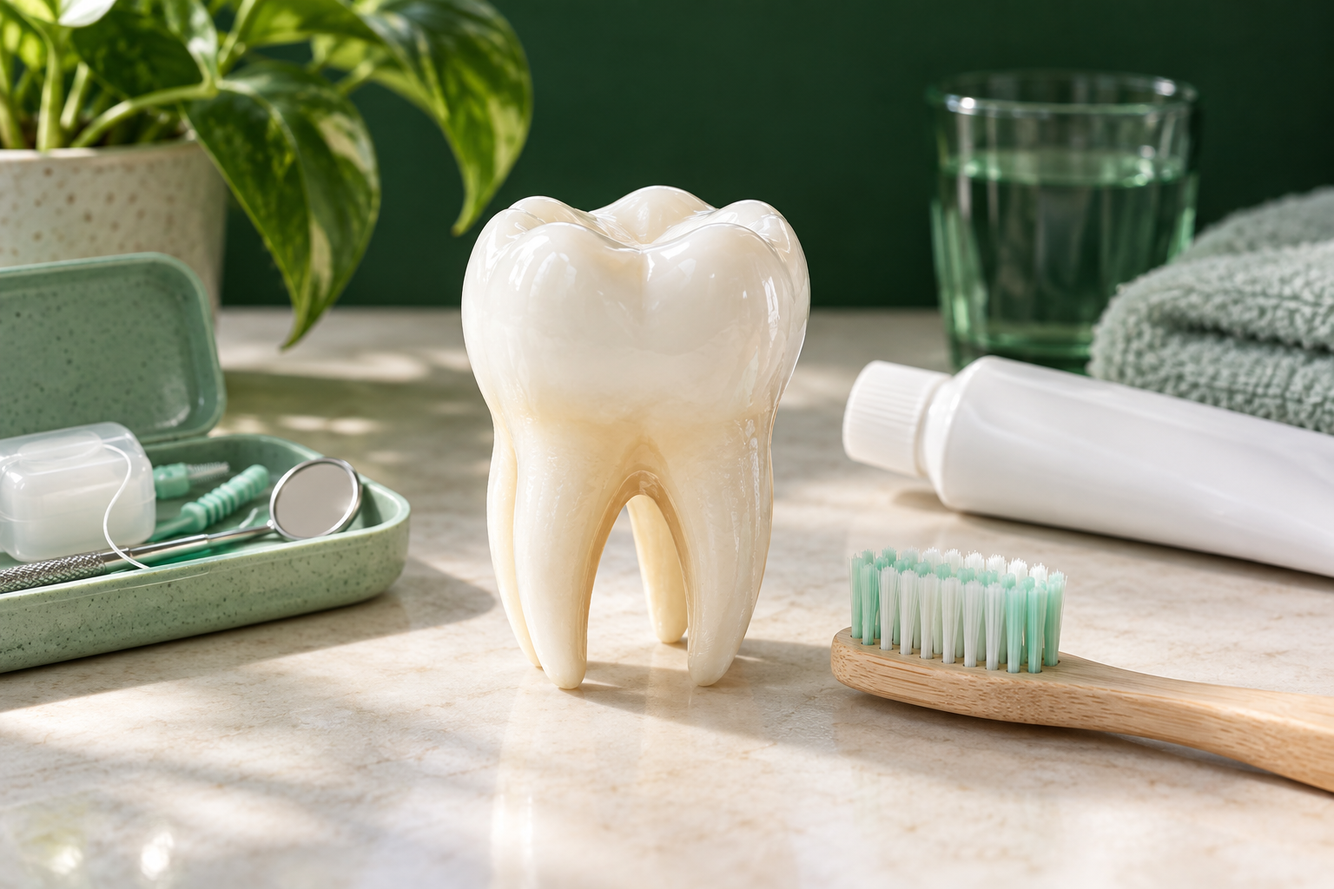
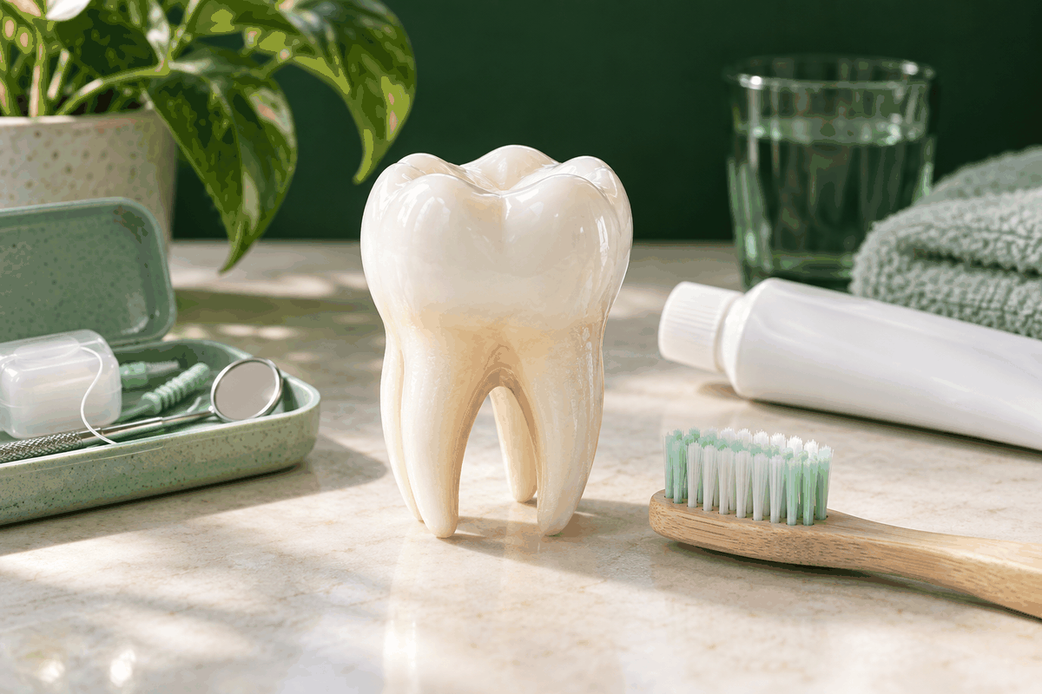
Imagens em WebP (~43 MB -> 2 MB) e contatos de suporte reais (ES e PT)
PNGs dos bônus mantidos (referenciados no conteúdo do Supabase), reduzidos.

Claude-Session: https://claude.ai/code/session_0115L1Bk836Ds85ivVbBK1Qr

diff --git a/index.html b/index.html
@@ -89,7 +89,7 @@ body.dark{background-image:radial-gradient(ellipse at 92% 4%,#009e1618,transpare
 .hero:before{content:'';position:absolute;inset:0;z-index:-1;background:radial-gradient(ellipse at 90% 35%,#00c51990,transparent 65%)}
 .hero-copy{padding:36px 37px}.hero .eyebrow{color:#71f28a;font-weight:600}.pill-dot{background:#00e323;box-shadow:0 0 10px #00e32380}
 .hero h2{font-size:36px;font-weight:700;letter-spacing:-1px;max-width:410px;line-height:1.22}.hero h2 em{color:#00df24}.hero p{color:#c0d0c2}.hero .btn{background:#00df24;color:#031207;box-shadow:0 5px 24px #00df2420}
-.hero-image{position:absolute;right:0;top:0;width:42%;height:100%;background:url('./assets/original/318e570845da55df1756.png') right center / auto 100% no-repeat;z-index:-1;mask-image:linear-gradient(to right,transparent 0%,#000 30%);-webkit-mask-image:linear-gradient(to right,transparent 0%,#000 30%)}
+.hero-image{position:absolute;right:0;top:0;width:42%;height:100%;background:url('./assets/original/318e570845da55df1756.webp') right center / auto 100% no-repeat;z-index:-1;mask-image:linear-gradient(to right,transparent 0%,#000 30%);-webkit-mask-image:linear-gradient(to right,transparent 0%,#000 30%)}
 .btn{border-radius:8px}.btn:hover{filter:brightness(1.08)}.dark .btn:not(.secondary){color:#020b04}.btn.secondary:hover{border-color:var(--green)}
 .panel,.module-card,.stat{box-shadow:var(--shadow)}.dark .module-card:hover{border-color:#258234}.module-art{background-image:url('./assets/original/01652dd9a48811f6f6f5.svg')!important}.dark .module-art{filter:none;background-color:#0b2811!important;color:#21e342!important;border:1px solid #1b4022}.dark .module-art .n{color:#94b89b}.module-art:after{border-color:#00df2420}.module-card h3{font-weight:600}
 .meter span{background:var(--green)}.dark .stat .icon{background:#0b2811;color:#00df24}.dark .stat strong{color:#f4f8f2}.side-note{border:1px solid var(--line);background:var(--soft) url('./assets/original/01652dd9a48811f6f6f5.svg')}.quote{border:1px solid var(--line)}.dark .quote p{color:#d6e5d8}.dark .quote span{color:#79a782}
@@ -345,9 +345,9 @@ body.premium-page{--bg:#f4f5ed;--surface:#fffef9;--ink:#1b342d;--muted:#69796d;-
 .bonus-access-state{display:flex;align-items:center;gap:8px;font-weight:700;color:var(--bonus-gold)}
 .bonus-buy-actions{display:flex;flex-wrap:wrap;gap:10px}.bonus-content .bonus-checkout-note{font-size:12px;line-height:1.65}
 .entry-code-btn{width:100%;margin-top:10px}.code-input{letter-spacing:.35em;font-size:1.35em;text-align:center;font-variant-numeric:tabular-nums}</style><link rel="manifest" href="./manifest.webmanifest"><meta name="apple-mobile-web-app-capable" content="yes"><meta name="apple-mobile-web-app-status-bar-style" content="black-translucent"><link rel="apple-touch-icon" sizes="180x180" href="./apple-touch-icon.png"><meta name="apple-mobile-web-app-title" content="Protocolo AB7"></head>
-<body class="dark entry-active"><aside class="sidebar"><a class="brand" href="#inicio" aria-label="Protocolo AB7 — Inicio"><span class="ab7-reference"><img class="ab7-reference-base" src="./assets/original/695de2e5254ba0661b77.png" alt="Protocolo AB7"><img class="ab7-reference-title" src="./assets/original/695de2e5254ba0661b77.png" alt="" aria-hidden="true"></span></a><p class="eyebrow sidebar-label">TU ESPACIO DE CUIDADO</p><nav aria-label="Navegación principal" id="desktop-nav"></nav><div class="side-note"><span class="icon" data-icon="leaf"></span><p>Pequeños hábitos.<br>Un nuevo comienzo.</p></div><p class="side-footer">APRENDE · PRACTICA · CUIDA</p></aside><div class="shell"><header class="topbar"><a class="mobile-brand" href="#inicio" aria-label="Protocolo AB7 — Inicio"><span class="ab7-reference"><img class="ab7-reference-base" src="./assets/original/695de2e5254ba0661b77.png" alt="Protocolo AB7"><img class="ab7-reference-title" src="./assets/original/695de2e5254ba0661b77.png" alt="" aria-hidden="true"></span></a><span class="top-label">TU PROGRAMA, A TU RITMO</span><div class="header-actions"><button class="btn secondary header-install" data-install-help aria-label="Instalar app"><span class="icon"><svg viewBox="0 0 24 24" aria-hidden="true"><path d="M7 2h10v20H7zM10 18h4"/></svg></span><span>Instalar app</span></button><button id="theme" class="icon-btn" aria-label="Cambiar tema"></button><a class="avatar" href="#perfil" aria-label="Abrir mi perfil" id="avatar">T</a></div></header><main id="main" tabindex="-1"><div class="loading">Preparando tu espacio…</div></main><footer class="footer">Protocolo AB7 <span>·</span> Un espacio para aprender y cuidarte.</footer></div><nav id="mobile-nav" class="bottom-nav" aria-label="Navegación móvil"></nav><div id="toast" role="status" aria-live="polite"></div><script src="./supabase-2.117.3.js"></script><script>let STATIC_CONTENT={modules:[],articles:[]};const ORIGINAL_ASSETS={"/assets/brand-transparent.png":"./assets/original/4c78a19f7de0c3392820.png","/assets/logo-ab7.png":"./assets/original/3cf5a6e380f916d380f9.png","/favicon.svg":"./assets/original/e6d2e59b7b5bbb0342e0.svg","/file.svg":"./assets/original/1e0ae4d1a1ddfa367529.svg","/globe.svg":"./assets/original/d051a8c47936990a9085.svg","/window.svg":"./assets/original/decf1cf7bb22b5c99c48.svg"};
+<body class="dark entry-active"><aside class="sidebar"><a class="brand" href="#inicio" aria-label="Protocolo AB7 — Inicio"><span class="ab7-reference"><img class="ab7-reference-base" src="./assets/original/695de2e5254ba0661b77.webp" alt="Protocolo AB7"><img class="ab7-reference-title" src="./assets/original/695de2e5254ba0661b77.webp" alt="" aria-hidden="true"></span></a><p class="eyebrow sidebar-label">TU ESPACIO DE CUIDADO</p><nav aria-label="Navegación principal" id="desktop-nav"></nav><div class="side-note"><span class="icon" data-icon="leaf"></span><p>Pequeños hábitos.<br>Un nuevo comienzo.</p></div><p class="side-footer">APRENDE · PRACTICA · CUIDA</p></aside><div class="shell"><header class="topbar"><a class="mobile-brand" href="#inicio" aria-label="Protocolo AB7 — Inicio"><span class="ab7-reference"><img class="ab7-reference-base" src="./assets/original/695de2e5254ba0661b77.webp" alt="Protocolo AB7"><img class="ab7-reference-title" src="./assets/original/695de2e5254ba0661b77.webp" alt="" aria-hidden="true"></span></a><span class="top-label">TU PROGRAMA, A TU RITMO</span><div class="header-actions"><button class="btn secondary header-install" data-install-help aria-label="Instalar app"><span class="icon"><svg viewBox="0 0 24 24" aria-hidden="true"><path d="M7 2h10v20H7zM10 18h4"/></svg></span><span>Instalar app</span></button><button id="theme" class="icon-btn" aria-label="Cambiar tema"></button><a class="avatar" href="#perfil" aria-label="Abrir mi perfil" id="avatar">T</a></div></header><main id="main" tabindex="-1"><div class="loading">Preparando tu espacio…</div></main><footer class="footer">Protocolo AB7 <span>·</span> Un espacio para aprender y cuidarte.</footer></div><nav id="mobile-nav" class="bottom-nav" aria-label="Navegación móvil"></nav><div id="toast" role="status" aria-live="polite"></div><script src="./supabase-2.117.3.js"></script><script>let STATIC_CONTENT={modules:[],articles:[]};const ORIGINAL_ASSETS={"/assets/brand-transparent.png":"./assets/original/4c78a19f7de0c3392820.png","/assets/logo-ab7.png":"./assets/original/3cf5a6e380f916d380f9.png","/favicon.svg":"./assets/original/e6d2e59b7b5bbb0342e0.svg","/file.svg":"./assets/original/1e0ae4d1a1ddfa367529.svg","/globe.svg":"./assets/original/d051a8c47936990a9085.svg","/window.svg":"./assets/original/decf1cf7bb22b5c99c48.svg"};
 let bonusMaterials=[];
-const SUPPORT_CONTACTS={email:'soporte@protocoloab7.example',whatsapp:'5511000000000'};
+const SUPPORT_CONTACTS={email:'santosjamesdf63@gmail.com',whatsapp:'5543984153117'};
 const paths={crown:'M3 7l4 4 5-8 5 8 4-4-2 13H5L3 7m3 10h12',lock:'M6 10h12v11H6zM8 10V6a4 4 0 0 1 8 0v4m-4 6v2',phone:'M7 2h10v20H7zM10 18h4',close:'M6 6l12 12M18 6 6 18',share:'M12 15V2m-4 4 4-4 4 4M5 10H3v11h18V10h-2',speaker:'M11 4 6 8H3v8h3l5 4V4m4 4a6 6 0 0 1 0 8m3-11a10 10 0 0 1 0 14',mail:'M3 5h18v14H3zM3 5l9 7 9-7',message:'M21 11a9 9 0 0 1-9 9 10 10 0 0 1-4-.9L3 21l1.9-5A9 9 0 1 1 21 11M8 11h.01M12 11h.01M16 11h.01',home:'M3 10 12 3l9 7M5 9v12h5v-7h4v7h5V9',book:'M12 6c-3-3-7-3-10-2v15c4-1 7 0 10 2m0-15c3-3 7-3 10-2v15c-4-1-7 0-10 2V6',check:'M9 5H5v16h14V5h-4M9 3h6v4H9zM8 13l3 3 5-6',chart:'M4 20V10m5 10V4m5 16v-8m5 8V7',user:'M12 12a4 4 0 1 0 0-8 4 4 0 0 0 0 8M4 21c0-5 3-7 8-7s8 2 8 7',leaf:'M4 20 18 6M7 17C0 6 10 1 21 3c1 12-4 19-14 14',sun:'M12 8a4 4 0 1 0 0 8 4 4 0 0 0 0-8M12 2v2m0 16v2M2 12h2m16 0h2M5 5l1 1m12 12 1 1M5 19l1-1M18 6l1-1',moon:'M20 15A9 9 0 0 1 9 4a9 9 0 1 0 11 11',arrow:'M4 12h15m-5-5 5 5-5 5',shield:'M12 2 3 6v7c0 5 9 9 9 9s9-4 9-9V6L12 2m-4 10 3 3 5-6',cup:'M4 8h12v10a3 3 0 0 1-3 3H7a3 3 0 0 1-3-3V8m12 1h2a3 3 0 0 1 0 6h-2M7 2v3m4-3v3',water:'M12 2C9 7 5 10 5 15a7 7 0 0 0 14 0c0-5-4-8-7-13',spark:'M12 2l3 7 7 3-7 3-3 7-3-7-7-3 7-3 3-7',search:'M10 3a7 7 0 1 0 0 14 7 7 0 0 0 0-14m5 12 6 6',alert:'M12 3 2 21h20L12 3m0 6v5m0 3v1',calendar:'M5 3v4m14-4v4M3 10h18M3 5h18v16H3z',download:'M12 3v12m-5-5 5 5 5-5M4 16v5h16v-5'};
 const icon=(name)=>`<span class="icon"><svg viewBox="0 0 24 24" aria-hidden="true"><path d="${paths[name]||paths.leaf}"/></svg></span>`;
 const esc=s=>String(s).replace(/[&<>"']/g,c=>({'&':'&amp;','<':'&lt;','>':'&gt;','"':'&quot;',"'":'&#39;'}[c]));
@@ -366,7 +366,7 @@ let modules=[], selectedDay=today();const countTasks=day=>(state.tasks[day]||[])
 const pct=()=>Math.round(state.completed.length/7*100);
 const moduleIcons=['spark','search','book','alert','shield','cup','leaf'];
 const moduleImageAlts=['Kit de cuidado bucal y cuaderno para comenzar una rutina','Modelo dental y utensilios para comprender el cuidado bucal','Alimentos y bebidas que pueden influir en el aliento','Cepillo, hilo dental y limpiador de lengua para revisar hábitos','Utensilios para el cuidado diario de dientes y encías','Infusiones con menta, jengibre, limón y té verde','Planificador y kit de cuidado bucal para mantener una rutina'];
-const modArt=m=>`<div class="module-art has-photo t${m.id}"><img class="module-visual" src="./assets/modulo-${m.id}.png" alt="" loading="lazy"><span class="n">0${m.id} / 07</span>${icon(moduleIcons[m.id-1])}</div>`;
+const modArt=m=>`<div class="module-art has-photo t${m.id}"><img class="module-visual" src="./assets/modulo-${m.id}.webp" alt="" loading="lazy"><span class="n">0${m.id} / 07</span>${icon(moduleIcons[m.id-1])}</div>`;
 const btn=(label,href,type='')=>`<a class="btn ${type}" href="${href}">${label}${icon('arrow')}</a>`;
 const sourceBox=`<div class="sources">Referencias de cuidado bucal: <a href="https://www.nhs.uk/symptoms/bad-breath/" target="_blank" rel="noopener">NHS · Mal aliento</a> y <a href="https://www.mouthhealthy.org/all-topics-a-z/dietary-acids-and-your-teeth" target="_blank" rel="noopener">ADA · Ácidos y esmalte</a>.<br>Contenido educativo. No sustituye la evaluación de un dentista.</div>`;
 let articles=[];
@@ -396,11 +396,11 @@ function stats(){return `<div class="stats"><div class="stat">${icon('book')}<di
 function resumeModule(){const last=modules.find(m=>m.id===state.lastModule);return (last&&!state.completed.includes(last.id)?last:null)||modules.find(m=>!state.completed.includes(m.id))||last||modules[0];}
 function home(){const next=resumeModule();const started=state.lastModule!==null||state.completed.length>0;return `${heading(`Bienvenido de nuevo${state.name?', '+esc(state.name):''}!`,'Qué bueno tenerte aquí. Dedica un momento a cuidarte.')}<p class="sync-status" id="sync-status" role="status">✓ Progreso guardado en tu cuenta</p><section class="hero"><div class="hero-copy"><div class="eyebrow"><span class="pill-dot"></span> BIENVENIDO A TU NUEVO COMIENZO</div><h2>Tu cuidado empieza<br>con un <em>pequeño hábito.</em></h2><p>Aprende, organiza tu rutina y avanza a tu ritmo.<br>Todo tu programa, en un solo lugar.</p>${btn(started?'Continuar donde lo dejaste':'Comenzar mi programa','#modulo/'+next.id)}</div><div class="hero-image" aria-hidden="true"></div></section>${stats()}<div class="two-col"><section><div class="section-title"><h2>${state.completed.length===7?'Vuelve a tu programa':started?'Continuar donde lo dejaste':'Tu primer paso'}</h2><a class="text-link" href="#modulos">Ver módulos ↗</a></div><div class="panel resume-panel"><div class="continue-card">${modArt(next)}<div><span class="module-caption">MÓDULO 0${next.id} · CONTENIDO</span><h3>${next.title}</h3><p>${next.description}</p><a class="text-link" href="#modulo/${next.id}">${started?'Retomar módulo':'Comenzar módulo'} →</a></div></div><div class="progress-meta"><span>Tu recorrido de aprendizaje</span><span>${pct()}%</span></div><div class="meter"><span style="width:${pct()}%"></span></div></div></section><section><div class="section-title"><h2>Un momento para ti</h2><span class="today-tag">HOY</span></div><div class="panel">${tasks()}</div></section></div><div class="quote home-quote"><p><strong>“Cada pequeño hábito es una forma de cuidarte.”</strong></p><span>AVANZA A TU RITMO</span><p class="audience-note">Aplicación de uso exclusivo para personas que sufren de mal aliento.</p></div>`}
 function moduleList(){return `${heading('Tu programa','Siete pasos para entender y mejorar tus hábitos de cuidado.')}<div class="intro-banner">${icon('book')}<span>Empieza por la bienvenida y avanza en orden. Todos los módulos están disponibles para consultar cuando quieras.</span></div><div class="grid">${modules.map(m=>`<a class="module-card" href="#modulo/${m.id}">${modArt(m)}<div class="content"><span class="module-caption">MÓDULO 0${m.id}</span><h3>${m.title}</h3><p>${m.description}</p><div class="card-bottom"><span>${state.completed.includes(m.id)?'✓ Completado':'Ver contenido'}</span><span>↗</span></div></div></a>`).join('')}</div>`}
-function reader(id){const m=modules.find(m=>m.id===id);if(!m)return '<div class="empty">Módulo no encontrado. <a href="#modulos">Volver al programa</a></div>';return `<div class="reader"><a class="back" href="#modulos">← Todos los módulos</a><div class="reader-head"><span class="module-caption">MÓDULO 0${id} DE 07</span><h1>${m.title}</h1><p>${m.description}</p></div>${audioControls()}<article class="article"><figure class="lesson-visual"><img src="./assets/modulo-${id}.png" alt="${moduleImageAlts[id-1]}" decoding="async"></figure>${articles[id-1]}${sourceBox}</article><div class="reader-bottom"><button class="btn ${state.completed.includes(id)?'secondary':''}" data-complete="${id}">${state.completed.includes(id)?'✓ Completado · desmarcar':'Marcar como completado'}</button>${id<7?btn('Siguiente módulo','#modulo/'+(id+1),'secondary'):btn('Ver mi progreso','#progreso','secondary')}</div></div>`}
+function reader(id){const m=modules.find(m=>m.id===id);if(!m)return '<div class="empty">Módulo no encontrado. <a href="#modulos">Volver al programa</a></div>';return `<div class="reader"><a class="back" href="#modulos">← Todos los módulos</a><div class="reader-head"><span class="module-caption">MÓDULO 0${id} DE 07</span><h1>${m.title}</h1><p>${m.description}</p></div>${audioControls()}<article class="article"><figure class="lesson-visual"><img src="./assets/modulo-${id}.webp" alt="${moduleImageAlts[id-1]}" decoding="async"></figure>${articles[id-1]}${sourceBox}</article><div class="reader-bottom"><button class="btn ${state.completed.includes(id)?'secondary':''}" data-complete="${id}">${state.completed.includes(id)?'✓ Completado · desmarcar':'Marcar como completado'}</button>${id<7?btn('Siguiente módulo','#modulo/'+(id+1),'secondary'):btn('Ver mi progreso','#progreso','secondary')}</div></div>`}
 function dateOffset(n){const d=new Date(state.start+'T12:00:00');d.setDate(d.getDate()+n);return `${d.getFullYear()}-${String(d.getMonth()+1).padStart(2,'0')}-${String(d.getDate()).padStart(2,'0')}`}
 function routine(){return `${heading('Tu rutina diaria','Un espacio para organizar tus cuidados, sin prisas.')}<div class="intro-banner">${icon('leaf')}<span>Este recorrido de 11 días es un registro de hábitos, no un plazo de curación. Puedes seguir usando el checklist después de completar el recorrido.</span></div><div class="section-title"><h2>Tu recorrido</h2><button class="btn secondary small" data-day="${today()}">Volver a hoy</button></div><div class="days">${Array.from({length:11},(_,i)=>{const d=dateOffset(i);return `<button class="day ${d===selectedDay?'today':''} ${countTasks(d)===4?'done':''}" data-day="${d}" aria-pressed="${d===selectedDay}"><small>DÍA</small>${String(i+1).padStart(2,'0')}<small>${countTasks(d)===4?'✓':d.slice(8)+'/'+d.slice(5,7)}</small></button>`}).join('')}</div><p class="muted">Registro seleccionado: ${new Date(selectedDay+'T12:00:00').toLocaleDateString('es',{weekday:'long',day:'numeric',month:'long'})}</p><div class="routine-grid"><div class="panel"><div class="section-title"><h2>Checklist de cuidados</h2><span class="today-tag">${countTasks(selectedDay)} / 4</span></div>${selectedDay>today()?'<p class="muted">Este día aún no ha llegado. Podrás registrar tus cuidados cuando llegue la fecha.</p>':''}${tasks(selectedDay)}<p class="muted">Después de cepillarte con pasta fluorada, escupe el exceso y no enjuagues inmediatamente con agua.</p></div><div class="panel"><h2>Recetas del material</h2><a class="recipe-preview" href="#modulo/6">${icon('cup')}<div><h3>Infusión de jengibre y menta</h3><p>Ingredientes y preparación · bebida caliente</p></div><span>↗</span></a><a class="recipe-preview" href="#modulo/6">${icon('water')}<div><h3>Té verde, menta e hinojo</h3><p>Ingredientes y preparación · bebida fría</p></div><span>↗</span></a><p class="muted">Recetas culinarias del programa. Consulta las notas de cuidado antes de prepararlas.</p></div></div>${sourceBox}`}
 function progress(){const recorded=Object.values(state.tasks).filter(a=>Array.isArray(a)&&a.some(Boolean)).length;const total=Object.values(state.tasks).reduce((s,a)=>s+(Array.isArray(a)?a.filter(Boolean).length:0),0);return `${heading('Cada paso cuenta','Aquí puedes ver todo lo que ya has recorrido.')}${stats()}<div class="two-col"><div class="panel"><h2>Tu aprendizaje</h2><div class="ring" style="--p:${pct()}%"><div><strong>${pct()}%</strong><small>DEL PROGRAMA</small></div></div>${modules.map(m=>`<a href="#modulo/${m.id}" class="completed-row"><span class="status-dot ${state.completed.includes(m.id)?'done':''}">${state.completed.includes(m.id)?'✓':m.id}</span><span>${m.title}</span><span style="margin-left:auto">↗</span></a>`).join('')}</div><div><div class="panel"><h2>Tus hábitos en números</h2><p style="font-size:35px;font-family:Manrope;margin:15px 0 3px">${total}</p><p class="muted">cuidados registrados en ${recorded} ${recorded===1?'día':'días'}</p><div class="notice">Tu progreso refleja lecturas y tareas registradas. No mide el estado de tu salud ni los resultados de un tratamiento.</div>${btn('Ir a mi rutina','#rutina','secondary')}</div><div class="quote"><p>Lo importante es encontrar una rutina que puedas mantener.</p></div></div></div>`}
-function bonus(){const id=(location.hash||'').split('/')[1];const material=bonusMaterials.find(b=>b.id===id);if(material)return `<div class="reader"><a class="back" href="#bonus">← Todos los contenidos exclusivos</a><div class="reader-head"><span class="module-caption">CONTENIDO EXCLUSIVO</span><h1>${esc(material.title)}</h1><p>${esc(material.description)}</p></div>${audioControls()}<article class="article"><figure class="lesson-visual"><img src="${material.image}" alt="Cuidados de salud bucal"></figure>${material.article}${sourceBox}</article><div class="reader-bottom">${btn('Volver a contenidos exclusivos','#bonus','secondary')}</div></div>`;return `${heading('Tus contenidos exclusivos','Cada complemento se activa con su compra correspondiente.')}<div class="bonus-grid">${BONUS_CATALOG.map(b=>{const owned=bonusMaterials.find(m=>m.id===b.id);return `<section class="panel bonus-card"><figure class="lesson-visual"><img src="${b.image}" alt="Cuidados de salud bucal" loading="lazy"></figure><div class="bonus-content"><span class="module-caption">CONTENIDO EXCLUSIVO</span><h2>${esc(b.title)}</h2><p class="bonus-access-state">${icon(owned?'shield':'lock')}${owned?'Acceso activo':'Acceso bloqueado'}</p><p>${owned?'Tu complemento está disponible para consultar y escuchar dentro del app.':'Este contenido se activa únicamente con la compra de este complemento.'}</p>${owned?btn('Ver contenido','#bonus/'+b.id):`<div class="bonus-buy-actions"><a class="btn" data-bonus-checkout="${b.id}" href="${b.checkout}" target="_blank" rel="noopener noreferrer">Comprar este contenido ${icon('arrow')}</a><button class="btn secondary" data-bonus-refresh>Ya compré · comprobar acceso</button></div><p class="muted bonus-checkout-note">Compra con el mismo correo que utilizas para entrar al app. El acceso se activa después de aprobarse el pago.</p>`}</div></section>`}).join('')}</div>`}
+function bonus(){const id=(location.hash||'').split('/')[1];const material=bonusMaterials.find(b=>b.id===id);if(material)return `<div class="reader"><a class="back" href="#bonus">← Todos los contenidos exclusivos</a><div class="reader-head"><span class="module-caption">CONTENIDO EXCLUSIVO</span><h1>${esc(material.title)}</h1><p>${esc(material.description)}</p></div>${audioControls()}<article class="article"><figure class="lesson-visual"><img src="${String(material.image).replace(/\.png$/,'.webp')}" alt="Cuidados de salud bucal"></figure>${material.article}${sourceBox}</article><div class="reader-bottom">${btn('Volver a contenidos exclusivos','#bonus','secondary')}</div></div>`;return `${heading('Tus contenidos exclusivos','Cada complemento se activa con su compra correspondiente.')}<div class="bonus-grid">${BONUS_CATALOG.map(b=>{const owned=bonusMaterials.find(m=>m.id===b.id);return `<section class="panel bonus-card"><figure class="lesson-visual"><img src="${b.image}" alt="Cuidados de salud bucal" loading="lazy"></figure><div class="bonus-content"><span class="module-caption">CONTENIDO EXCLUSIVO</span><h2>${esc(b.title)}</h2><p class="bonus-access-state">${icon(owned?'shield':'lock')}${owned?'Acceso activo':'Acceso bloqueado'}</p><p>${owned?'Tu complemento está disponible para consultar y escuchar dentro del app.':'Este contenido se activa únicamente con la compra de este complemento.'}</p>${owned?btn('Ver contenido','#bonus/'+b.id):`<div class="bonus-buy-actions"><a class="btn" data-bonus-checkout="${b.id}" href="${b.checkout}" target="_blank" rel="noopener noreferrer">Comprar este contenido ${icon('arrow')}</a><button class="btn secondary" data-bonus-refresh>Ya compré · comprobar acceso</button></div><p class="muted bonus-checkout-note">Compra con el mismo correo que utilizas para entrar al app. El acceso se activa después de aprobarse el pago.</p>`}</div></section>`}).join('')}</div>`}
 
 
 function profile(){return `<div class="profile-intro"><div class="avatar">${esc((state.name||'T')[0].toUpperCase())}</div><div><h1>Bienvenido${state.name?', '+esc(state.name):''}!</h1><p class="access-active">${icon('shield')} ¡Tu acceso está activo!</p></div></div><section class="panel support-panel"><div class="support-heading">${icon('user')}<div><h2>Soporte dedicado</h2><p>¿Necesitas ayuda con el protocolo? Habla con nuestro equipo.</p></div></div><div class="support-actions"><a class="btn secondary" href="mailto:${SUPPORT_CONTACTS.email}?subject=Ayuda%20con%20el%20Protocolo%20AB7">${icon('mail')} Contactar por correo electrónico</a><a class="btn" href="https://wa.me/${SUPPORT_CONTACTS.whatsapp}?text=${encodeURIComponent('¡Hola! Necesito ayuda con el Protocolo AB7.')}" target="_blank" rel="noopener">${icon('message')} Contactar por WhatsApp</a></div></section><div class="profile-grid"><section class="panel"><h2>Mi perfil</h2><form id="profile-form"><label class="field">¿Cómo te llamas?<input id="name" name="name" maxlength="40" placeholder="Tu nombre" value="${esc(state.name)}" autocomplete="given-name"></label><label class="field">Apariencia<select id="theme-select" name="theme"><option value="light" ${state.theme==='light'?'selected':''}>Tema claro</option><option value="dark" ${state.theme==='dark'?'selected':''}>Tema oscuro</option></select></label><button class="btn" type="submit">Guardar cambios</button><button class="btn secondary" type="button" data-exit style="margin-top:12px">Salir del app</button></form><p class="muted">${storageOK?'Tu nombre y tu progreso se guardan en tu cuenta.':'No se pudo guardar. Revisa tu conexión.'}</p></section></div>`}
@@ -454,7 +454,7 @@ document.querySelector('#main').addEventListener('change',e=>{const input=e.targ
 window.addEventListener('online',()=>{if(premiumDirty)flushPremium()});
 
 // Public card metadata only. Full lessons are fetched under product-scoped RLS.
-const BONUS_CATALOG=[{id:'caseos',scope:'bonus_caseos',checkout:'https://go.centerpag.com/PPU38CQH23T',title:'¡Cáseos Nunca Más!',image:'./assets/bonus-caseos.png'},{id:'blanqueamiento',scope:'bonus_dientes',checkout:'https://go.centerpag.com/PPU38CQH241',title:'Dientes Claros',image:'./assets/bonus-blanqueamiento.png'}];
+const BONUS_CATALOG=[{id:'caseos',scope:'bonus_caseos',checkout:'https://go.centerpag.com/PPU38CQH23T',title:'¡Cáseos Nunca Más!',image:'./assets/bonus-caseos.webp'},{id:'blanqueamiento',scope:'bonus_dientes',checkout:'https://go.centerpag.com/PPU38CQH241',title:'Dientes Claros',image:'./assets/bonus-blanqueamiento.webp'}];
 let preferenceTimer=null,preferencesDirty=false,preferencesSaveChain=Promise.resolve();
 function buyerLanding(){const requested=new URLSearchParams(location.search).get('producto');const complement=BONUS_CATALOG.find(b=>b.scope===requested);if(complement&&bonusMaterials.some(b=>b.id===complement.id))return '#bonus/'+complement.id;if(requested==='adaptacion'&&premiumContent)return '#premium';return programAccess?'#inicio':premiumContent?'#premium':'#bonus'}
 function saveBuyerPreferences(){if(!entryAccepted||!authUser)return;preferencesDirty=true;clearTimeout(preferenceTimer);preferenceTimer=setTimeout(flushBuyerPreferences,500)}

diff --git a/pt/index.html b/pt/index.html
@@ -89,7 +89,7 @@ body.dark{background-image:radial-gradient(ellipse at 92% 4%,#009e1618,transpare
 .hero:before{content:'';position:absolute;inset:0;z-index:-1;background:radial-gradient(ellipse at 90% 35%,#00c51990,transparent 65%)}
 .hero-copy{padding:36px 37px}.hero .eyebrow{color:#71f28a;font-weight:600}.pill-dot{background:#00e323;box-shadow:0 0 10px #00e32380}
 .hero h2{font-size:36px;font-weight:700;letter-spacing:-1px;max-width:410px;line-height:1.22}.hero h2 em{color:#00df24}.hero p{color:#c0d0c2}.hero .btn{background:#00df24;color:#031207;box-shadow:0 5px 24px #00df2420}
-.hero-image{position:absolute;right:0;top:0;width:42%;height:100%;background:url('./assets/original/318e570845da55df1756.png') right center / auto 100% no-repeat;z-index:-1;mask-image:linear-gradient(to right,transparent 0%,#000 30%);-webkit-mask-image:linear-gradient(to right,transparent 0%,#000 30%)}
+.hero-image{position:absolute;right:0;top:0;width:42%;height:100%;background:url('./assets/original/318e570845da55df1756.webp') right center / auto 100% no-repeat;z-index:-1;mask-image:linear-gradient(to right,transparent 0%,#000 30%);-webkit-mask-image:linear-gradient(to right,transparent 0%,#000 30%)}
 .btn{border-radius:8px}.btn:hover{filter:brightness(1.08)}.dark .btn:not(.secondary){color:#020b04}.btn.secondary:hover{border-color:var(--green)}
 .panel,.module-card,.stat{box-shadow:var(--shadow)}.dark .module-card:hover{border-color:#258234}.module-art{background-image:url('./assets/original/01652dd9a48811f6f6f5.svg')!important}.dark .module-art{filter:none;background-color:#0b2811!important;color:#21e342!important;border:1px solid #1b4022}.dark .module-art .n{color:#94b89b}.module-art:after{border-color:#00df2420}.module-card h3{font-weight:600}
 .meter span{background:var(--green)}.dark .stat .icon{background:#0b2811;color:#00df24}.dark .stat strong{color:#f4f8f2}.side-note{border:1px solid var(--line);background:var(--soft) url('./assets/original/01652dd9a48811f6f6f5.svg')}.quote{border:1px solid var(--line)}.dark .quote p{color:#d6e5d8}.dark .quote span{color:#79a782}
@@ -368,7 +368,7 @@ let modules=[], selectedDay=today();const countTasks=day=>(state.tasks[day]||[])
 const pct=()=>Math.round(state.completed.length/7*100);
 const moduleIcons=['spark','search','book','alert','shield','cup','leaf'];
 const moduleImageAlts=['Kit de cuidado bucal e caderno para começar uma rotina','Modelo dental e utensílios para compreender o cuidado bucal','Alimentos e bebidas que podem influenciar o hálito','Escova, fio dental e limpador de língua para rever hábitos','Utensílios para o cuidado diário de dentes e gengivas','Infusões com hortelã, gengibre, limão e chá verde','Planejador e kit de cuidado bucal para manter uma rotina'];
-const modArt=m=>`<div class="module-art has-photo t${m.id}"><img class="module-visual" src="./assets/modulo-${m.id}.png" alt="" loading="lazy"><span class="n">0${m.id} / 07</span>${icon(moduleIcons[m.id-1])}</div>`;
+const modArt=m=>`<div class="module-art has-photo t${m.id}"><img class="module-visual" src="./assets/modulo-${m.id}.webp" alt="" loading="lazy"><span class="n">0${m.id} / 07</span>${icon(moduleIcons[m.id-1])}</div>`;
 const btn=(label,href,type='')=>`<a class="btn ${type}" href="${href}">${label}${icon('arrow')}</a>`;
 const sourceBox=`<div class="sources">Referências de cuidado bucal: <a href="https://www.nhs.uk/symptoms/bad-breath/" target="_blank" rel="noopener">NHS · Mau hálito</a> e <a href="https://www.mouthhealthy.org/all-topics-a-z/dietary-acids-and-your-teeth" target="_blank" rel="noopener">ADA · Ácidos e esmalte</a>.<br>Conteúdo educativo. Não substitui a avaliação de um dentista.</div>`;
 let articles=[];
@@ -398,11 +398,11 @@ function stats(){return `<div class="stats"><div class="stat">${icon('book')}<di
 function resumeModule(){const last=modules.find(m=>m.id===state.lastModule);return (last&&!state.completed.includes(last.id)?last:null)||modules.find(m=>!state.completed.includes(m.id))||last||modules[0];}
 function home(){const next=resumeModule();const started=state.lastModule!==null||state.completed.length>0;return `${heading(`Bem-vindo de volta${state.name?', '+esc(state.name):''}!`,'Que bom ter você aqui. Reserve um momento para cuidar de você.')}<p class="sync-status" id="sync-status" role="status">✓ Progresso salvo na sua conta</p><section class="hero"><div class="hero-copy"><div class="eyebrow"><span class="pill-dot"></span> BEM-VINDO AO SEU NOVO COMEÇO</div><h2>Seu cuidado começa<br>com um <em>pequeno hábito.</em></h2><p>Aprenda, organize sua rotina e avance no seu ritmo.<br>Todo o seu programa, em um só lugar.</p>${btn(started?'Continuar de onde parou':'Começar meu programa','#modulo/'+next.id)}</div><div class="hero-image" aria-hidden="true"></div></section>${stats()}<div class="two-col"><section><div class="section-title"><h2>${state.completed.length===7?'Volte ao seu programa':started?'Continuar de onde parou':'Seu primeiro passo'}</h2><a class="text-link" href="#modulos">Ver módulos ↗</a></div><div class="panel resume-panel"><div class="continue-card">${modArt(next)}<div><span class="module-caption">MÓDULO 0${next.id} · CONTEÚDO</span><h3>${next.title}</h3><p>${next.description}</p><a class="text-link" href="#modulo/${next.id}">${started?'Retomar módulo':'Começar módulo'} →</a></div></div><div class="progress-meta"><span>Sua jornada de aprendizado</span><span>${pct()}%</span></div><div class="meter"><span style="width:${pct()}%"></span></div></div></section><section><div class="section-title"><h2>Um momento para você</h2><span class="today-tag">HOJE</span></div><div class="panel">${tasks()}</div></section></div><div class="quote home-quote"><p><strong>“Cada pequeno hábito é uma forma de cuidar de você.”</strong></p><span>AVANCE NO SEU RITMO</span><p class="audience-note">Aplicativo de uso exclusivo para pessoas que sofrem de mau hálito.</p></div>`}
 function moduleList(){return `${heading('Seu programa','Sete passos para entender e melhorar seus hábitos de cuidado.')}<div class="intro-banner">${icon('book')}<span>Comece pelas boas-vindas e avance na ordem. Todos os módulos estão disponíveis para consultar quando quiser.</span></div><div class="grid">${modules.map(m=>`<a class="module-card" href="#modulo/${m.id}">${modArt(m)}<div class="content"><span class="module-caption">MÓDULO 0${m.id}</span><h3>${m.title}</h3><p>${m.description}</p><div class="card-bottom"><span>${state.completed.includes(m.id)?'✓ Concluído':'Ver conteúdo'}</span><span>↗</span></div></div></a>`).join('')}</div>`}
-function reader(id){const m=modules.find(m=>m.id===id);if(!m)return '<div class="empty">Módulo não encontrado. <a href="#modulos">Voltar ao programa</a></div>';return `<div class="reader"><a class="back" href="#modulos">← Todos os módulos</a><div class="reader-head"><span class="module-caption">MÓDULO 0${id} DE 07</span><h1>${m.title}</h1><p>${m.description}</p></div>${audioControls()}<article class="article"><figure class="lesson-visual"><img src="./assets/modulo-${id}.png" alt="${moduleImageAlts[id-1]}" decoding="async"></figure>${articles[id-1]}${sourceBox}</article><div class="reader-bottom"><button class="btn ${state.completed.includes(id)?'secondary':''}" data-complete="${id}">${state.completed.includes(id)?'✓ Concluído · desmarcar':'Marcar como concluído'}</button>${id<7?btn('Próximo módulo','#modulo/'+(id+1),'secondary'):btn('Ver meu progresso','#progreso','secondary')}</div></div>`}
+function reader(id){const m=modules.find(m=>m.id===id);if(!m)return '<div class="empty">Módulo não encontrado. <a href="#modulos">Voltar ao programa</a></div>';return `<div class="reader"><a class="back" href="#modulos">← Todos os módulos</a><div class="reader-head"><span class="module-caption">MÓDULO 0${id} DE 07</span><h1>${m.title}</h1><p>${m.description}</p></div>${audioControls()}<article class="article"><figure class="lesson-visual"><img src="./assets/modulo-${id}.webp" alt="${moduleImageAlts[id-1]}" decoding="async"></figure>${articles[id-1]}${sourceBox}</article><div class="reader-bottom"><button class="btn ${state.completed.includes(id)?'secondary':''}" data-complete="${id}">${state.completed.includes(id)?'✓ Concluído · desmarcar':'Marcar como concluído'}</button>${id<7?btn('Próximo módulo','#modulo/'+(id+1),'secondary'):btn('Ver meu progresso','#progreso','secondary')}</div></div>`}
 function dateOffset(n){const d=new Date(state.start+'T12:00:00');d.setDate(d.getDate()+n);return `${d.getFullYear()}-${String(d.getMonth()+1).padStart(2,'0')}-${String(d.getDate()).padStart(2,'0')}`}
 function routine(){return `${heading('Sua rotina diária','Um espaço para organizar seus cuidados, sem pressa.')}<div class="intro-banner">${icon('leaf')}<span>Esta jornada de 11 dias é um registro de hábitos, não um prazo de cura. Você pode continuar usando o checklist depois de completar a jornada.</span></div><div class="section-title"><h2>Sua jornada</h2><button class="btn secondary small" data-day="${today()}">Voltar para hoje</button></div><div class="days">${Array.from({length:11},(_,i)=>{const d=dateOffset(i);return `<button class="day ${d===selectedDay?'today':''} ${countTasks(d)===4?'done':''}" data-day="${d}" aria-pressed="${d===selectedDay}"><small>DIA</small>${String(i+1).padStart(2,'0')}<small>${countTasks(d)===4?'✓':d.slice(8)+'/'+d.slice(5,7)}</small></button>`}).join('')}</div><p class="muted">Registro selecionado: ${new Date(selectedDay+'T12:00:00').toLocaleDateString('pt-BR',{weekday:'long',day:'numeric',month:'long'})}</p><div class="routine-grid"><div class="panel"><div class="section-title"><h2>Checklist de cuidados</h2><span class="today-tag">${countTasks(selectedDay)} / 4</span></div>${selectedDay>today()?'<p class="muted">Este dia ainda não chegou. Você poderá registrar seus cuidados quando a data chegar.</p>':''}${tasks(selectedDay)}<p class="muted">Após escovar com creme dental com flúor, cuspa o excesso e não enxágue imediatamente com água.</p></div><div class="panel"><h2>Receitas do material</h2><a class="recipe-preview" href="#modulo/6">${icon('cup')}<div><h3>Infusão de gengibre e hortelã</h3><p>Ingredientes e preparo · bebida quente</p></div><span>↗</span></a><a class="recipe-preview" href="#modulo/6">${icon('water')}<div><h3>Chá verde, hortelã e erva-doce</h3><p>Ingredientes e preparo · bebida fria</p></div><span>↗</span></a><p class="muted">Receitas culinárias do programa. Consulte as notas de cuidado antes de prepará-las.</p></div></div>${sourceBox}`}
 function progress(){const recorded=Object.values(state.tasks).filter(a=>Array.isArray(a)&&a.some(Boolean)).length;const total=Object.values(state.tasks).reduce((s,a)=>s+(Array.isArray(a)?a.filter(Boolean).length:0),0);return `${heading('Cada passo conta','Aqui você pode ver tudo o que já percorreu.')}${stats()}<div class="two-col"><div class="panel"><h2>Seu aprendizado</h2><div class="ring" style="--p:${pct()}%"><div><strong>${pct()}%</strong><small>DO PROGRAMA</small></div></div>${modules.map(m=>`<a href="#modulo/${m.id}" class="completed-row"><span class="status-dot ${state.completed.includes(m.id)?'done':''}">${state.completed.includes(m.id)?'✓':m.id}</span><span>${m.title}</span><span style="margin-left:auto">↗</span></a>`).join('')}</div><div><div class="panel"><h2>Seus hábitos em números</h2><p style="font-size:35px;font-family:Manrope;margin:15px 0 3px">${total}</p><p class="muted">cuidados registrados em ${recorded} ${recorded===1?'dia':'dias'}</p><div class="notice">Seu progresso reflete leituras e tarefas registradas. Não mede o estado da sua saúde nem os resultados de um tratamento.</div>${btn('Ir para minha rotina','#rutina','secondary')}</div><div class="quote"><p>O importante é encontrar uma rotina que você consiga manter.</p></div></div></div>`}
-function bonus(){const id=(location.hash||'').split('/')[1];const material=bonusMaterials.find(b=>b.id===id);if(material)return `<div class="reader"><a class="back" href="#bonus">← Todos os conteúdos exclusivos</a><div class="reader-head"><span class="module-caption">CONTEÚDO EXCLUSIVO</span><h1>${esc(material.title)}</h1><p>${esc(material.description)}</p></div>${audioControls()}<article class="article"><figure class="lesson-visual"><img src="${material.image}" alt="Cuidados de saúde bucal"></figure>${material.article}${sourceBox}</article><div class="reader-bottom">${btn('Voltar aos conteúdos exclusivos','#bonus','secondary')}</div></div>`;return `${heading('Seus conteúdos exclusivos','Cada complemento é ativado com a compra correspondente.')}<div class="bonus-grid">${BONUS_CATALOG.map(b=>{const owned=bonusMaterials.find(m=>m.id===b.id);return `<section class="panel bonus-card"><figure class="lesson-visual"><img src="${b.image}" alt="Cuidados de saúde bucal" loading="lazy"></figure><div class="bonus-content"><span class="module-caption">CONTEÚDO EXCLUSIVO</span><h2>${esc(b.title)}</h2><p class="bonus-access-state">${icon(owned?'shield':'lock')}${owned?'Acesso ativo':'Acesso bloqueado'}</p><p>${owned?'Seu complemento está disponível para consultar e ouvir no aplicativo.':'Este conteúdo é ativado somente com a compra deste complemento.'}</p>${owned?btn('Ver conteúdo','#bonus/'+b.id):`<div class="bonus-buy-actions"><a class="btn" data-bonus-checkout="${b.id}" href="${b.checkout || '#perfil'}" target="_blank" rel="noopener noreferrer">Comprar este conteúdo ${icon('arrow')}</a><button class="btn secondary" data-bonus-refresh>Já comprei · verificar acesso</button></div><p class="muted bonus-checkout-note">Compre com o mesmo e-mail que usa para entrar no aplicativo. O acesso é ativado após a aprovação do pagamento.</p>`}</div></section>`}).join('')}</div>`}
+function bonus(){const id=(location.hash||'').split('/')[1];const material=bonusMaterials.find(b=>b.id===id);if(material)return `<div class="reader"><a class="back" href="#bonus">← Todos os conteúdos exclusivos</a><div class="reader-head"><span class="module-caption">CONTEÚDO EXCLUSIVO</span><h1>${esc(material.title)}</h1><p>${esc(material.description)}</p></div>${audioControls()}<article class="article"><figure class="lesson-visual"><img src="${String(material.image).replace(/\.png$/,'.webp')}" alt="Cuidados de saúde bucal"></figure>${material.article}${sourceBox}</article><div class="reader-bottom">${btn('Voltar aos conteúdos exclusivos','#bonus','secondary')}</div></div>`;return `${heading('Seus conteúdos exclusivos','Cada complemento é ativado com a compra correspondente.')}<div class="bonus-grid">${BONUS_CATALOG.map(b=>{const owned=bonusMaterials.find(m=>m.id===b.id);return `<section class="panel bonus-card"><figure class="lesson-visual"><img src="${b.image}" alt="Cuidados de saúde bucal" loading="lazy"></figure><div class="bonus-content"><span class="module-caption">CONTEÚDO EXCLUSIVO</span><h2>${esc(b.title)}</h2><p class="bonus-access-state">${icon(owned?'shield':'lock')}${owned?'Acesso ativo':'Acesso bloqueado'}</p><p>${owned?'Seu complemento está disponível para consultar e ouvir no aplicativo.':'Este conteúdo é ativado somente com a compra deste complemento.'}</p>${owned?btn('Ver conteúdo','#bonus/'+b.id):`<div class="bonus-buy-actions"><a class="btn" data-bonus-checkout="${b.id}" href="${b.checkout || '#perfil'}" target="_blank" rel="noopener noreferrer">Comprar este conteúdo ${icon('arrow')}</a><button class="btn secondary" data-bonus-refresh>Já comprei · verificar acesso</button></div><p class="muted bonus-checkout-note">Compre com o mesmo e-mail que usa para entrar no aplicativo. O acesso é ativado após a aprovação do pagamento.</p>`}</div></section>`}).join('')}</div>`}
 
 
 function profile(){return `<div class="profile-intro"><div class="avatar">${esc((state.name||'T')[0].toUpperCase())}</div><div><h1>Bem-vindo${state.name?', '+esc(state.name):''}!</h1><p class="access-active">${icon('shield')} Seu acesso está ativo!</p></div></div><section class="panel support-panel"><div class="support-heading">${icon('user')}<div><h2>Suporte dedicado</h2><p>Precisa de ajuda com o protocolo? Fale com nossa equipe.</p></div></div><div class="support-actions"><a class="btn secondary" href="mailto:${SUPPORT_CONTACTS.email}?subject=Ajuda%20com%20Halitus%20AB7">${icon('mail')} Entrar em contato por e-mail</a><a class="btn" href="https://wa.me/${SUPPORT_CONTACTS.whatsapp}?text=${encodeURIComponent('Olá! Preciso de ajuda com o Halitus AB7.')}" target="_blank" rel="noopener">${icon('message')} Entrar em contato pelo WhatsApp</a></div></section><div class="profile-grid"><section class="panel"><h2>Meu perfil</h2><form id="profile-form"><label class="field">Como você se chama?<input id="name" name="name" maxlength="40" placeholder="Seu nome" value="${esc(state.name)}" autocomplete="given-name"></label><label class="field">Aparência<select id="theme-select" name="theme"><option value="light" ${state.theme==='light'?'selected':''}>Tema claro</option><option value="dark" ${state.theme==='dark'?'selected':''}>Tema escuro</option></select></label><button class="btn" type="submit">Salvar alterações</button><button class="btn secondary" type="button" data-exit style="margin-top:12px">Sair do aplicativo</button></form><p class="muted">${storageOK?'Seu nome e seu progresso são salvos na sua conta.':'Não foi possível salvar. Confira sua conexão.'}</p></section></div>`}
@@ -457,7 +457,7 @@ document.querySelector('#main').addEventListener('change',e=>{const input=e.targ
 window.addEventListener('online',()=>{if(premiumDirty)flushPremium()});
 
 // Public card metadata only. Full lessons are fetched under product-scoped RLS.
-const BONUS_CATALOG=[{id:'caseos',scope:'bonus_caseos',checkout:AB7_CONFIG.checkouts.caseos,title:'Cáseos Nunca Mais!',image:'./assets/bonus-caseos.png'},{id:'blanqueamiento',scope:'bonus_dientes',checkout:AB7_CONFIG.checkouts.dentes,title:'Dentes Claros',image:'./assets/bonus-blanqueamiento.png'}];
+const BONUS_CATALOG=[{id:'caseos',scope:'bonus_caseos',checkout:AB7_CONFIG.checkouts.caseos,title:'Cáseos Nunca Mais!',image:'./assets/bonus-caseos.webp'},{id:'blanqueamiento',scope:'bonus_dientes',checkout:AB7_CONFIG.checkouts.dentes,title:'Dentes Claros',image:'./assets/bonus-blanqueamiento.webp'}];
 let preferenceTimer=null,preferencesDirty=false,preferencesSaveChain=Promise.resolve();
 function buyerLanding(){const requested=new URLSearchParams(location.search).get('producto');const complement=BONUS_CATALOG.find(b=>b.scope===requested);if(complement&&bonusMaterials.some(b=>b.id===complement.id))return '#bonus/'+complement.id;if(requested==='adaptacion'&&premiumContent)return '#premium';return programAccess?'#inicio':premiumContent?'#premium':'#bonus'}
 function saveBuyerPreferences(){if(!entryAccepted||!authUser)return;preferencesDirty=true;clearTimeout(preferenceTimer);preferenceTimer=setTimeout(flushBuyerPreferences,500)}

diff --git a/pt/config.js b/pt/config.js
@@ -2,6 +2,6 @@
 window.AB7_CONFIG = {
   platform: 'kirvano',
   checkouts: { premium: '', caseos: '', dentes: '' },
-  support: { email: '', whatsapp: '' },
+  support: { email: 'santosjamesdf63@gmail.com', whatsapp: '5543984153117' },
   passwordRedirectUrl: ''
 };
